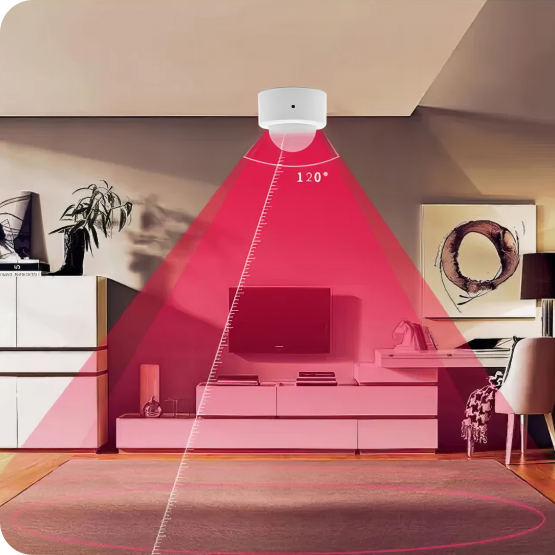
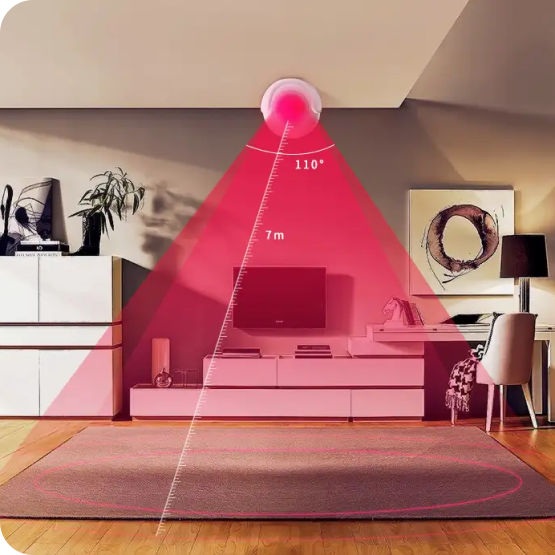
Motion Sensor page design

diff --git a/src/components/MotionSensorPage.vue b/src/components/MotionSensorPage.vue
@@ -72,7 +72,7 @@
      <v-card class=" rgb-card d-flex flex-column align-center justify-end"  variant="tonal">
         
         <h1 class="font-weight-bold mb-4 mt-8" >Akıllı Hareket Sensörü</h1>
-         <span class="rgb-text " >Mobil uygulaması sayesinde sensörünüzün durumunu ve <br class="my-2">geçmişe yönelik hareket kayıtlarını takip edebilirsiniz. </span>
+         <span class="rgb-text " >Mobil uygulaması sayesinde sensörünüzün <br class="my-2">durumunu ve geçmişe yönelik hareket kayıtlarını takip edebilirsiniz. </span>
          <v-card-actions>
              <v-btn  @click="" class="rgb-button mr-4" size="x-large" density="comfortable" rounded="xl"  variant="flat" color="#FFFFFF" href="https://shop.xenonsmart.com/">
                Satın al
@@ -102,7 +102,7 @@
            </v-spacer>
            <v-spacer class="card-text mr-2 mb-2">
             <span class="subtext-size">
-                Yüksek hassasiyetli sensörler, 120o açı ve 5m mesafedeki her türlü hareketi anında algılar ve size bildirim gönderir. Evden uzakta olduğunuzda bile, hareket algılama özelliği sayesinde güvenliğiniz kontrol altında olur.
+              Yüksek hassasiyetli sensörler, 110o açı ve 7m mesafedeki her türlü hareketi anında algılar ve size bildirim gönderir. Evden uzakta olduğunuzda bile, hareket algılama özelliği sayesinde güvenliğiniz kontrol altında olur.
           </span>
           </v-spacer>
            
@@ -125,7 +125,7 @@
         </v-spacer>
         <v-spacer class="card-text ml-2 mb-2">
          <span class="subtext-size">
-            Kapı durumu değiştiğinde anında bildirim alın. Bu sayede evinizi istenmeyen ziyaretçilere karşı koruyabilirsiniz.
+          Akıllı Hareket Sensörü her türlü hareketi anında algılar ve size bildirim gönderir. Evden uzakta olduğunuzda bile, hareket algılama özelliği sayesinde güvenliğiniz kontrol altında olur.
        </span>
        </v-spacer>
         
@@ -135,7 +135,7 @@
         <v-img
           cover
           max-width="760"
-          src="@/assets/Layer43.png"
+          src="@/assets/Layer73.png"
         ></v-img>
    
     </v-col>
